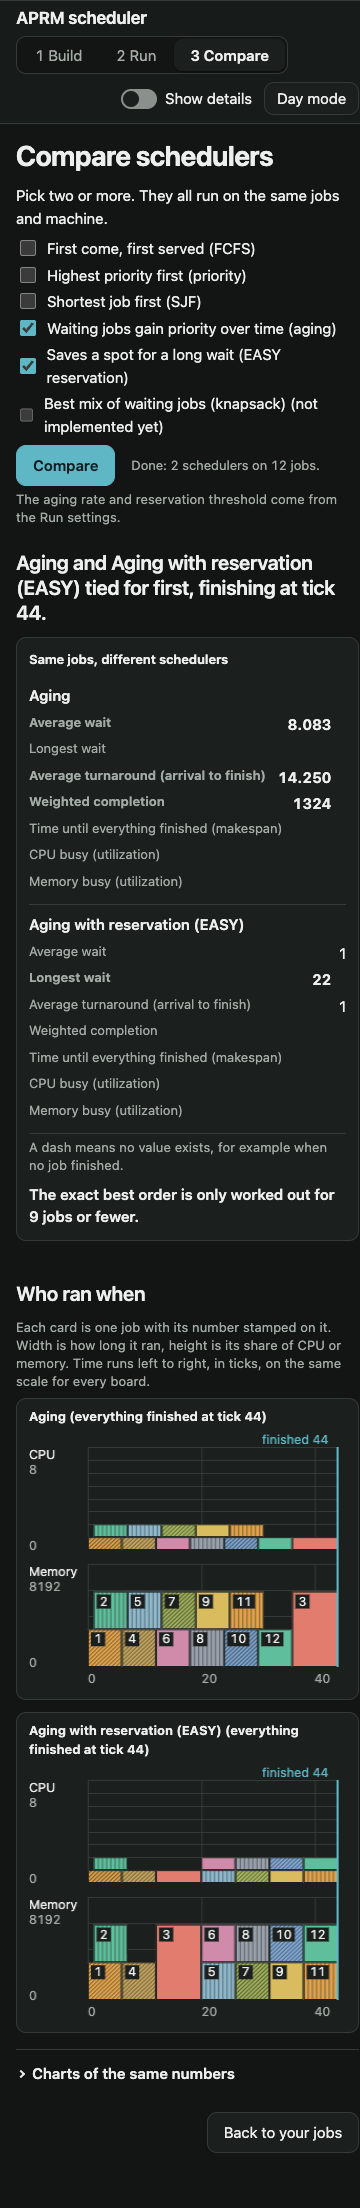
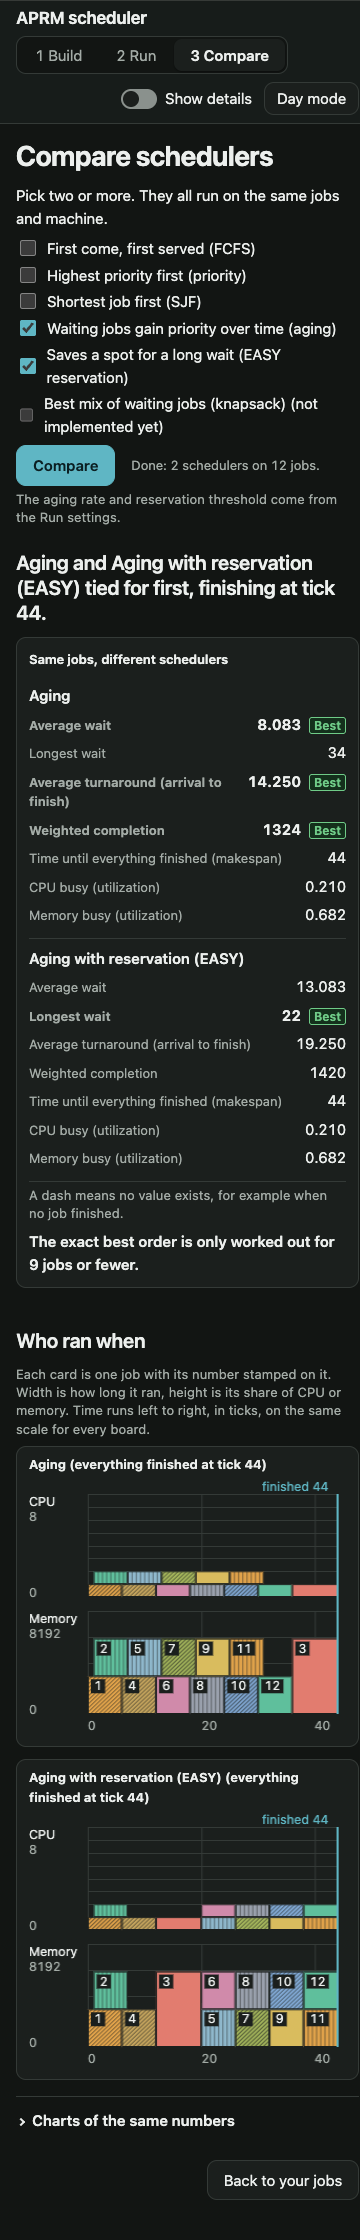
Compare on a phone: every number shown; check it, and check stylesheets balance

Changed region(s): [[0.0306, 0.0, 0.9778, 1.0]]

diff --git a/web/css/components.css b/web/css/components.css
@@ -185,19 +185,22 @@ html[data-details="off"] .detail-only { display: none; }
 .scroll-x { overflow-x: auto; }
 .exact-line { margin: var(--s-2) 0 0; font-weight: 600; }
 td.best { font-weight: 650; }
-td.best::after { content: attr(data-best); display: inline-block; margin-left: var(--s-2); font-size: 0.75rem; line-height: 1.3; font-weight: 650; padding: 0 var(--s-1); border: 1px solid var(--green); border-radius: 3px; color: var(--green); background: var(--ok-bg); }
+td.best::after { content: attr(data-best); font-size: 0.75rem; line-height: 1.3; font-weight: 650; padding: 0 var(--s-1); border: 1px solid var(--green); border-radius: 3px; color: var(--green); background: var(--ok-bg); }
+@media (min-width: 45.01rem) {
+  /* Every number keeps the same right edge: room for the stamp is reserved in each cell. */
+  .job-table.compare-table td { position: relative; white-space: nowrap; text-align: right; padding-right: 3.25rem; }
+  .job-table.compare-table thead th + th { text-align: right; padding-right: 3.25rem; }
+  td.best::after { position: absolute; right: var(--s-1); top: 50%; transform: translateY(-50%); }
+}
 .compare-more { margin-top: var(--s-6); }
 .compare-more .compare-charts { margin-top: var(--s-2); }
 @media (max-width: 45rem) {
   .job-table.compare-table tbody tr { display: block; padding: var(--s-2) 0; }
   .job-table.compare-table tbody th { display: block; padding: 0 0 var(--s-1); border: 0; font-size: var(--fs-body); color: var(--text); }
-  .job-table.compare-table td { display: flex; justify-content: space-between; gap: var(--s-3); text-align: right; padding: 2px 0; }
-  .job-table.compare-table td::before { content: attr(data-label); color: var(--muted); font-size: var(--fs-caption); text-align: left; margin: 0; }
-  .job-table.compare-table td { justify-content: flex-end; white-space: normal; }
-  .job-table.compare-table td::before { margin-right: auto; }
+  .job-table.compare-table td { display: flex; align-items: baseline; gap: var(--s-2); padding: 2px 0; text-align: right; white-space: normal; }
+  .job-table.compare-table td::before { content: attr(data-label); flex: 1 1 auto; min-width: 0; margin: 0; color: var(--muted); font-size: var(--fs-caption); text-align: left; }
+  .job-table.compare-table td::after { flex: 0 0 auto; }
 }
-.job-table.compare-table td, .job-table.compare-table thead th + th { text-align: right; }
-.job-table.compare-table td { white-space: nowrap; }
 .compare-fig { background: var(--surface); border: 1px solid var(--border); border-radius: var(--r-2); padding: var(--s-2) var(--s-3); min-width: 0; }
 .compare-fig figcaption { font-size: var(--fs-caption); font-weight: 650; margin-bottom: var(--s-1); }
 
